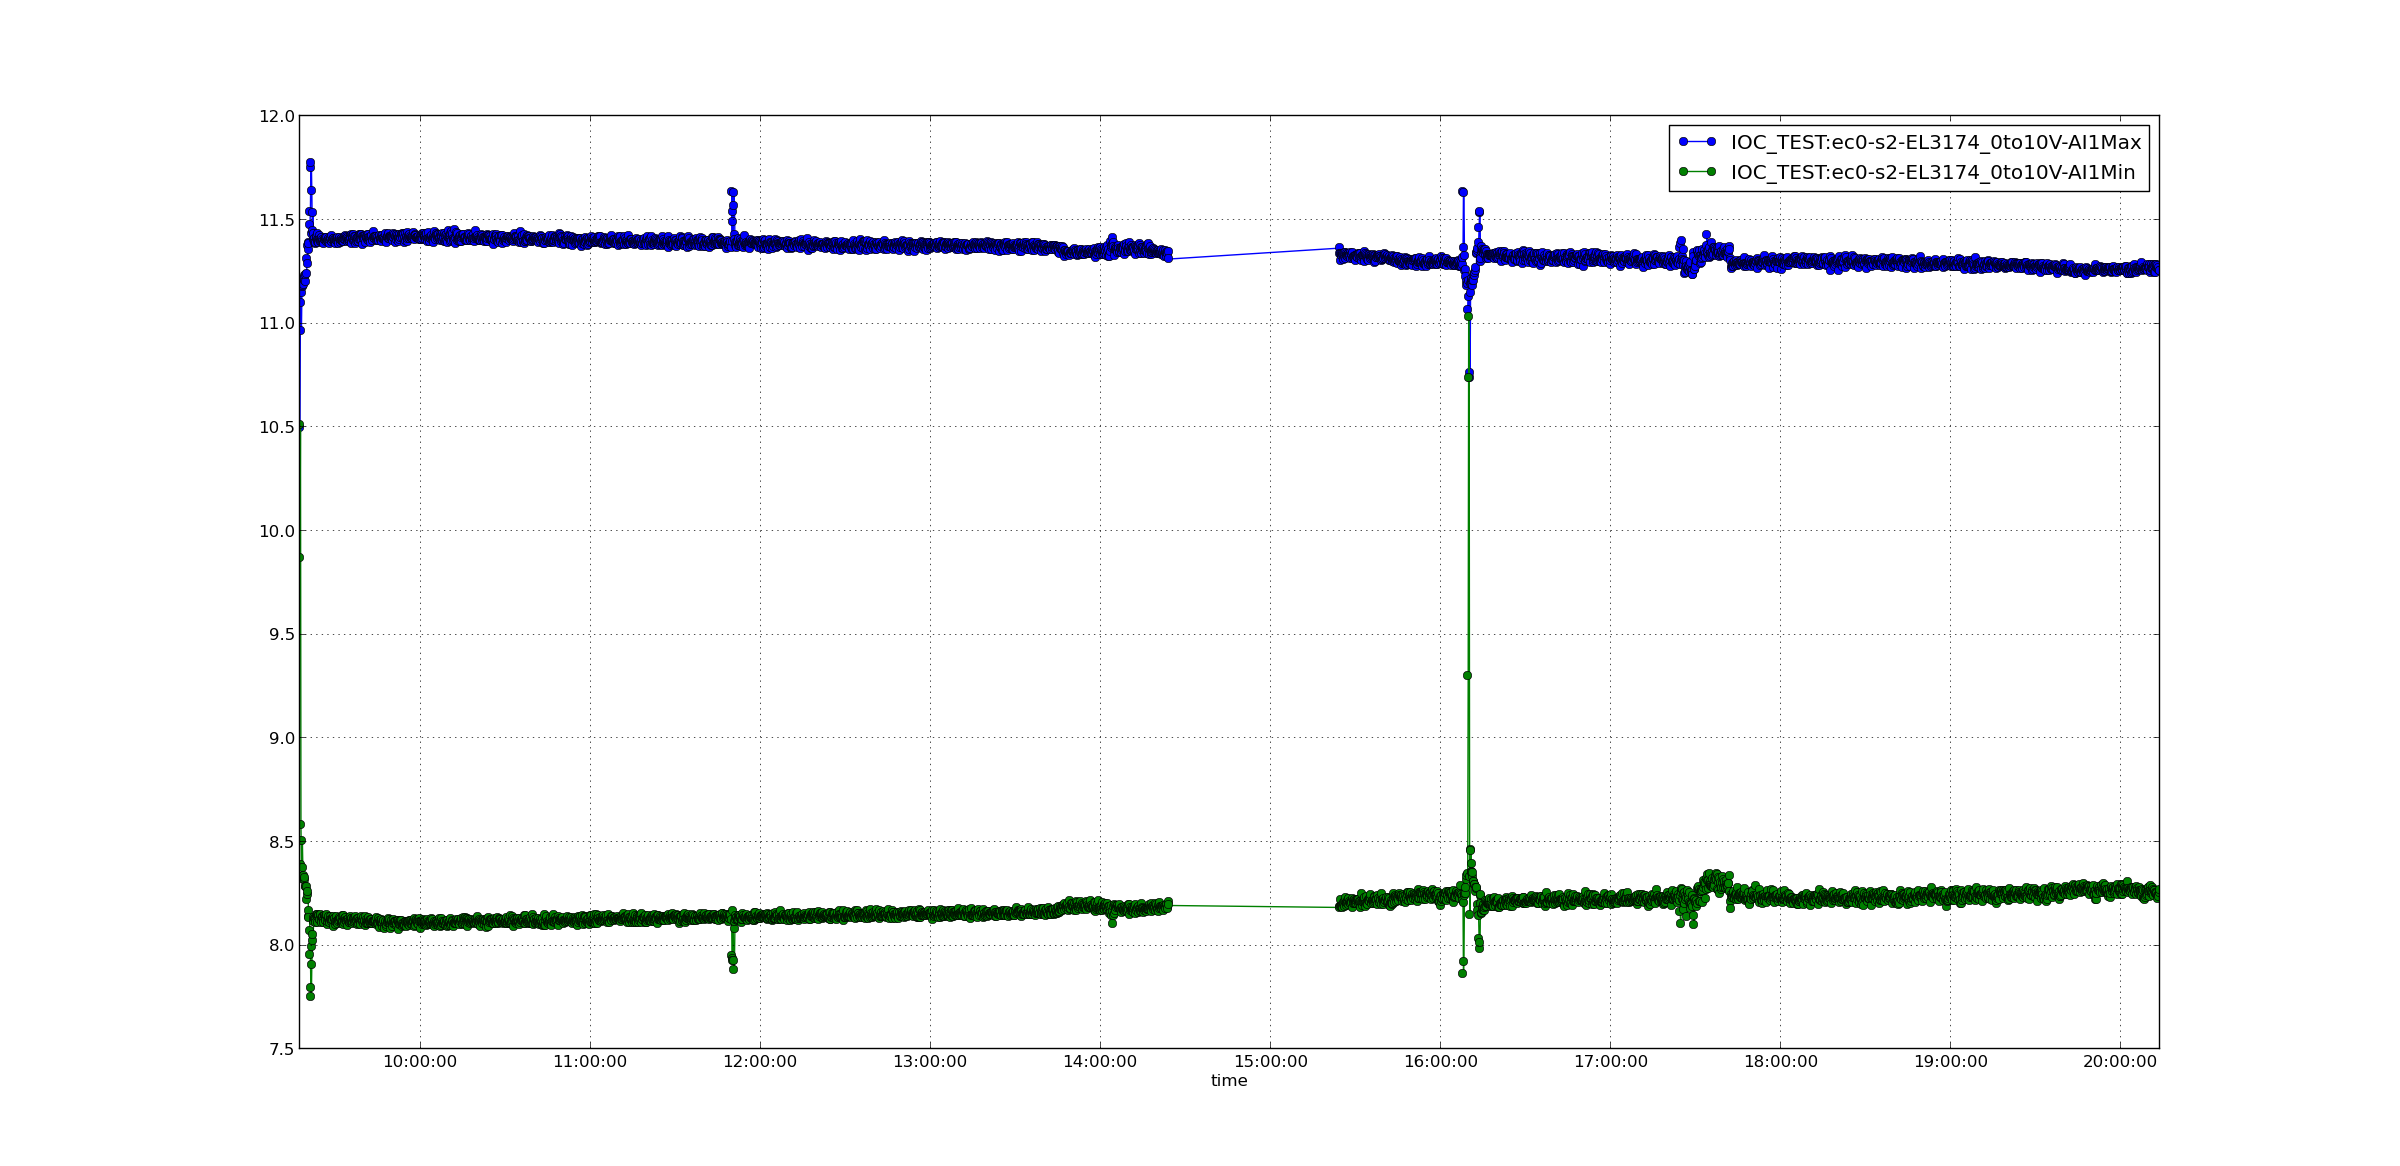
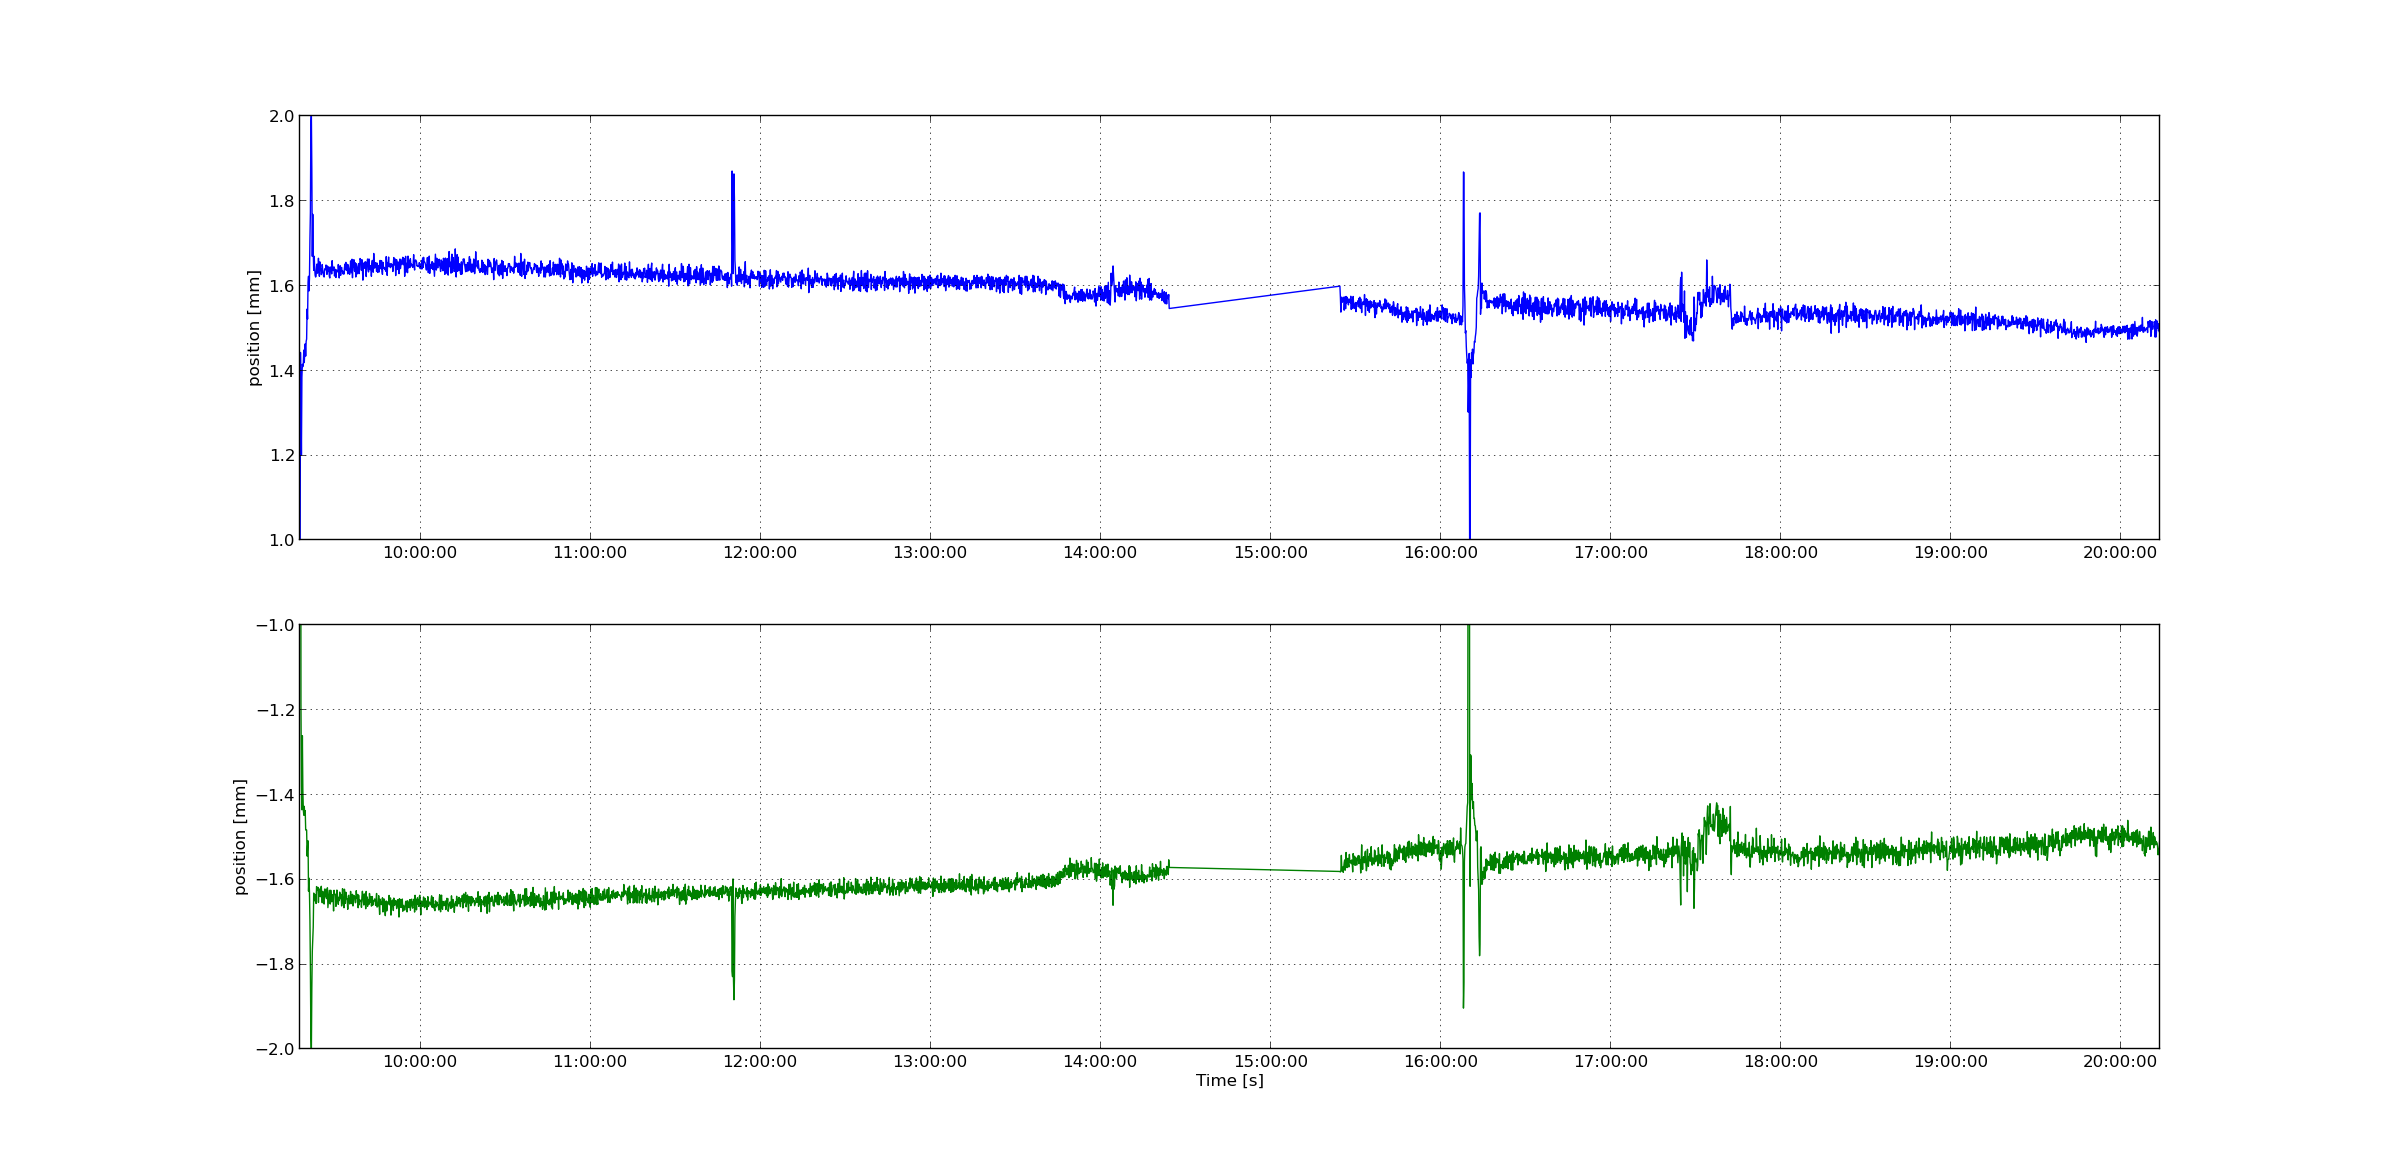
wip

diff --git a/rotor_position/calcs/plot12HPositonMaxMin.py b/rotor_position/calcs/plot12HPositonMaxMin.py
@@ -1,0 +1,102 @@
+#!/usr/bin/python
+# coding: utf-8
+import sys
+import numpy as np
+import matplotlib.pyplot as plt
+from datetime import datetime
+from caPVArrayLib import caPVArray
+from caMonitorArrayParserLib import caMonitorArrayParser 
+ 
+def printOutHelp():
+  print ("python slask.py")
+  print ("Custom plot for target rotor displacement sensors: cat *.log | slask.py")
+
+def main():
+  # Check args
+  if len(sys.argv)>1:    
+    pos1=sys.argv[1].find('-h')
+    if(pos1>=0):
+      printOutHelp()
+      sys.exit()
+
+  scale=1.0  # default
+
+  if len(sys.argv)==2:      
+     scale=float(sys.argv[1])
+
+  pvY1name = "Max"
+  pvY2name = "Min"
+    
+  dataFile=sys.stdin
+
+  parser = caMonitorArrayParser()
+  pvY1   = caPVArray(pvY1name)
+  pvY2   = caPVArray(pvY2name)
+  
+  for line in dataFile:
+    
+    if not parser.lineValid(line):      
+      continue
+
+    if line.find(pvY1name)==-1 and line.find(pvY2name)==-1:
+      continue
+
+    pvName, timeVal, data = parser.getValues(line)
+    
+    if pvName.find(pvY1name)>=0:
+       pvY1.setValues(timeVal,data)
+
+    if pvName.find(pvY2name)>=0:
+       pvY2.setValues(timeVal,data)
+
+  y1Time,y1Data = pvY1.getData()
+  y2Time,y2Data = pvY2.getData()
+
+  y1Data = y1Data * scale
+  y2Data = y2Data * scale
+
+  y1DataAvg = np.mean(y1Data)
+  y2DataAvg = np.mean(y2Data)
+  
+  diff=y1DataAvg-y2DataAvg
+
+  # subtract avg
+  y1Data = y1Data - y1DataAvg + diff / 2.0
+  y2Data = y2Data - y2DataAvg - diff / 2.0
+  
+  print("statistics")
+
+  pvLen = len(y1Data)
+  pvMax = np.max(y1Data)
+  pvMin = np.min(y1Data)
+  pvAvg = np.mean(y1Data)
+  pvStd = np.std(y1Data)
+  legStr = pvY1name + "[" + str(pvLen) + "] " + str(pvMin) + ".." + str(pvMax) + ", mean: " + str(pvAvg) + ", std: " + str(pvStd)
+  print (legStr)
+
+  pvLen = len(y2Data)
+  pvMax = np.max(y2Data)
+  pvMin = np.min(y2Data)
+  pvAvg = np.mean(y2Data)
+  pvStd = np.std(y2Data)
+  legStr = pvY2name + "[" + str(pvLen) + "] " + str(pvMin) + ".." + str(pvMax) + ", mean: " + str(pvAvg) + ", std: " + str(pvStd)
+  print (legStr)
+
+  fig2=plt.figure(2)
+  ax1=fig2.add_subplot(2, 1, 1)
+  ax1.plot(y1Time,y1Data, color='b')
+  ax1.set_ylabel("position [mm]")  
+  ax1.set_ylim(1, 2)
+  ax1.grid()
+  
+  ax2=fig2.add_subplot(2, 1, 2)
+  ax2.plot(y2Time,y2Data, color='g')
+  ax2.set_ylabel("position [mm]")  
+  ax2.set_ylim(-2, -1)
+  ax2.grid()
+
+  plt.xlabel("Time [s]")
+  plt.show()
+
+if __name__ == "__main__":
+  main()

diff --git a/rotor_position/calcs/plot12HPositonMaxMinOpto.py b/rotor_position/calcs/plot12HPositonMaxMinOpto.py
@@ -1,0 +1,102 @@
+#!/usr/bin/python
+# coding: utf-8
+import sys
+import numpy as np
+import matplotlib.pyplot as plt
+from datetime import datetime
+from caPVArrayLib import caPVArray
+from caMonitorArrayParserLib import caMonitorArrayParser 
+ 
+def printOutHelp():
+  print ("python slask.py")
+  print ("Custom plot for target rotor displacement sensors: cat *.log | slask.py")
+
+def main():
+  # Check args
+  if len(sys.argv)>1:    
+    pos1=sys.argv[1].find('-h')
+    if(pos1>=0):
+      printOutHelp()
+      sys.exit()
+
+  scale=1.0  # default
+
+  if len(sys.argv)==2:      
+     scale=float(sys.argv[1])
+
+  pvY1name = "Max"
+  pvY2name = "Min"
+    
+  dataFile=sys.stdin
+
+  parser = caMonitorArrayParser()
+  pvY1   = caPVArray(pvY1name)
+  pvY2   = caPVArray(pvY2name)
+  
+  for line in dataFile:
+    
+    if not parser.lineValid(line):      
+      continue
+
+    if line.find(pvY1name)==-1 and line.find(pvY2name)==-1:
+      continue
+
+    pvName, timeVal, data = parser.getValues(line)
+    
+    if pvName.find(pvY1name)>=0:
+       pvY1.setValues(timeVal,data)
+
+    if pvName.find(pvY2name)>=0:
+       pvY2.setValues(timeVal,data)
+
+  y1Time,y1Data = pvY1.getData()
+  y2Time,y2Data = pvY2.getData()
+
+  y1Data = y1Data
+  y2Data = y2Data
+
+  y1DataAvg = np.mean(y1Data)
+  y2DataAvg = np.mean(y2Data)
+  
+  diff=y1DataAvg-y2DataAvg
+
+  # subtract avg
+  y1Data = y1Data - y1DataAvg + diff / 2.0
+  y2Data = y2Data - y2DataAvg - diff / 2.0
+  
+  print("statistics")
+
+  pvLen = len(y1Data)
+  pvMax = np.max(y1Data)
+  pvMin = np.min(y1Data)
+  pvAvg = np.mean(y1Data)
+  pvStd = np.std(y1Data)
+  legStr = pvY1name + "[" + str(pvLen) + "] " + str(pvMin) + ".." + str(pvMax) + ", mean: " + str(pvAvg) + ", std: " + str(pvStd)
+  print (legStr)
+
+  pvLen = len(y2Data)
+  pvMax = np.max(y2Data)
+  pvMin = np.min(y2Data)
+  pvAvg = np.mean(y2Data)
+  pvStd = np.std(y2Data)
+  legStr = pvY2name + "[" + str(pvLen) + "] " + str(pvMin) + ".." + str(pvMax) + ", mean: " + str(pvAvg) + ", std: " + str(pvStd)
+  print (legStr)
+
+  fig2=plt.figure(2)
+  ax1=fig2.add_subplot(2, 1, 1)
+  ax1.plot(y1Time,y1Data, color='b')
+  ax1.set_ylabel("position [mm]")  
+  ax1.set_ylim(2, 4)
+  ax1.grid()
+  
+  ax2=fig2.add_subplot(2, 1, 2)
+  ax2.plot(y2Time,y2Data, color='g')
+  ax2.set_ylabel("position [mm]")  
+  ax2.set_ylim(-4, -2)
+  ax2.grid()
+
+  plt.xlabel("Time [s]")
+  plt.show()
+
+if __name__ == "__main__":
+  main()
